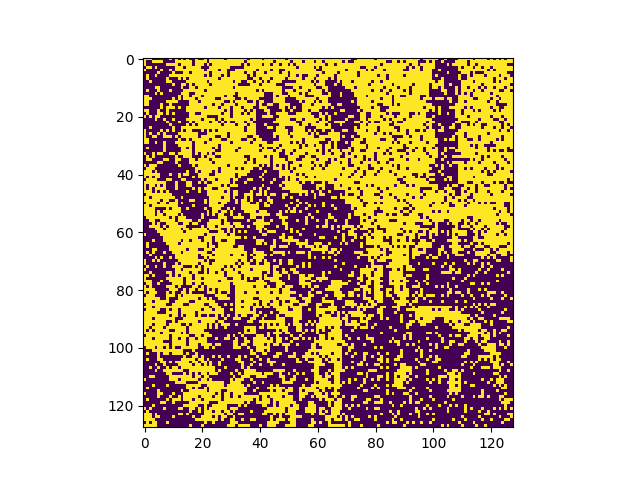
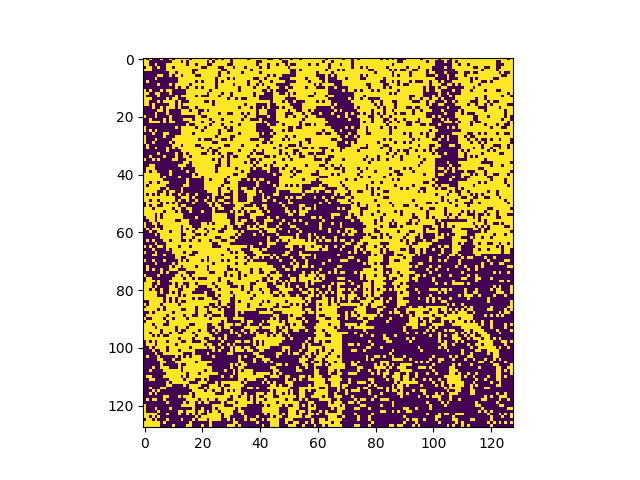
Add more images to test_fancy.py

Changed region(s): [[0.2188, 0.125, 0.8125, 0.9062]]

diff --git a/test_fancy.py b/test_fancy.py
@@ -24,11 +24,15 @@ if __name__ == '__main__':
 
     camera = skimage.data.camera()
     astronaut = rgb2gray(skimage.data.astronaut())
-    horse = skimage.data.horse()
     coffee = rgb2gray(skimage.data.coffee())
+    moon = skimage.data.moon()
+    an = skimage.data.microaneurysms()
+    hdf = rgb2gray(skimage.data.hubble_deep_field())
+    pg = skimage.data.page()
+    rocket = rgb2gray(skimage.data.rocket())
 
     # Marge data
-    data = [camera, astronaut, horse, coffee]
+    data = [camera, astronaut, coffee, moon]
 
     # Preprocessing
     print("Start to data preprocessing...")
